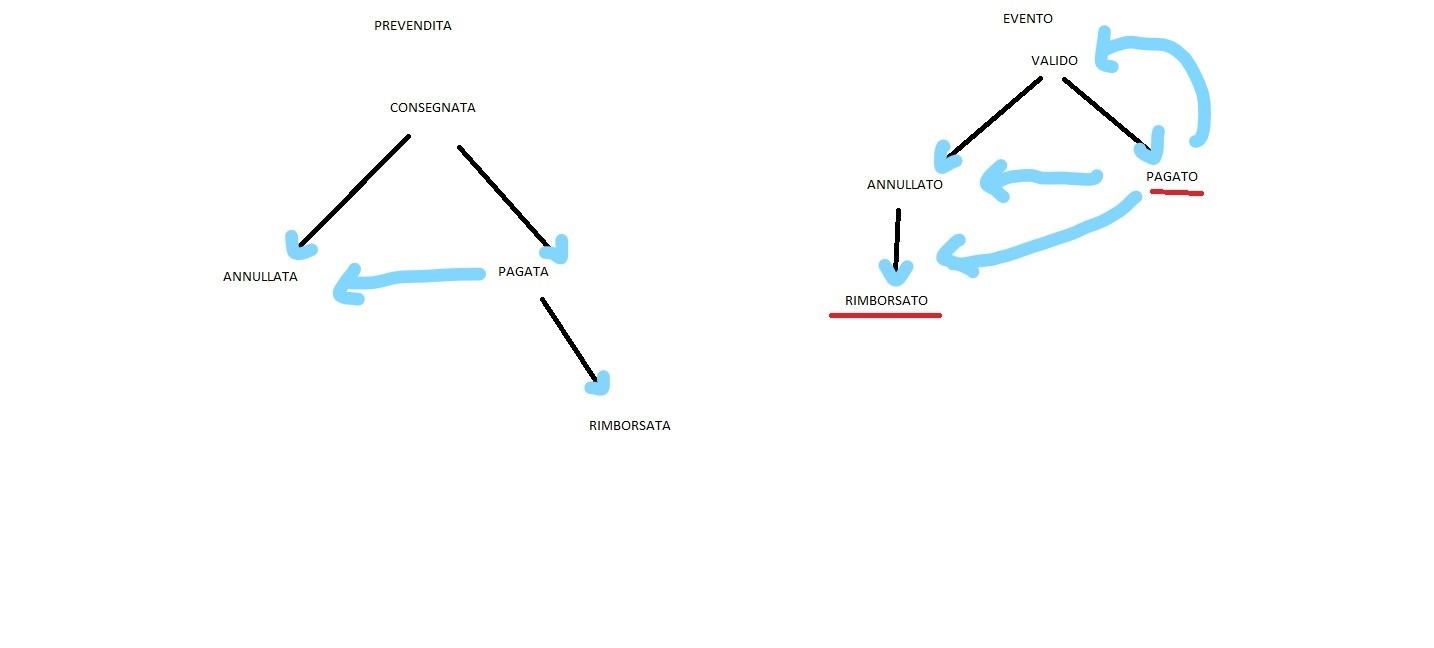
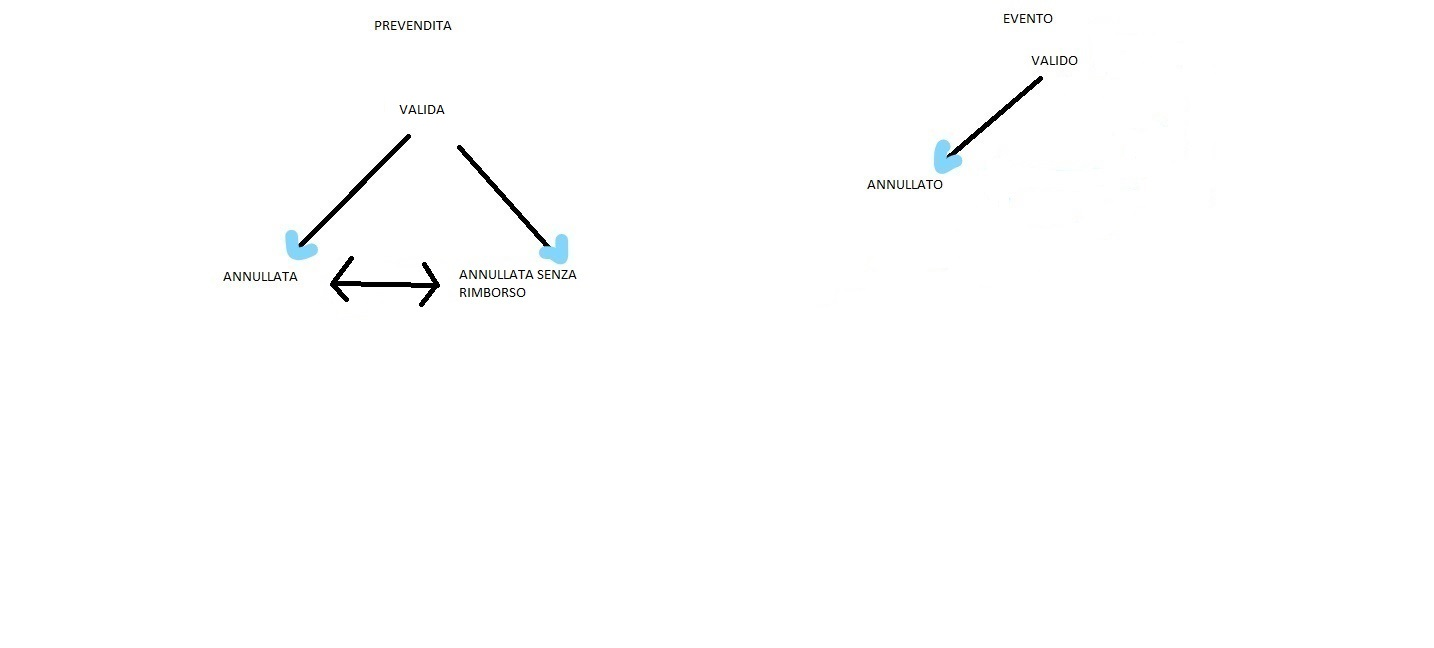
Aggiornamento Aggiornamento dei Requisiti Modifica degli stati di Prevendita e Evento Di conseguenza ho modificato DDL
TODO
Nuova figura dell'amministratore di sistema.
Ho modificato la registrazione:
Ora è a carico dell'amministratore di sistema.
Implementare sistema di log a livelli. Visibile solo per Amm.Sis.
Fallo nel DB così fai prima.
Blocco account utente dopo 3 tentativi falliti.
Da aggiungere il cambia password
La prima password va cambiata:
Mettere check con exception che non fa fare nulla

Manca un check su modificaDirittiUtente:
Per vedere se rimane un amministratore.

diff --git a/Ingegneria del software T/3-progetto.tex b/Ingegneria del software T/3-progetto.tex
@@ -1,5 +1,7 @@
-\documentclass{article}
+\documentclass[a4paper]{article}
 \usepackage[utf8]{inputenc}
+\usepackage[margin=50pt]{geometry}
+\usepackage{tabulary}
 
 \title{Ingegneria del Software T}
 \author{
@@ -32,91 +34,119 @@ Il risparmio economico ottenuto è ovviamente importante in confronto alla vendi
 Viene gestito oltre alle prevendite e relatvi clienti, anche l'organizzazione e i vari membri dell'organizzazione, con divisione dei ruoli.\\
 Per facilitare i conti di bilancio è disponibile una sezione in cui è possibile ricavare statistiche sull'andamento dell'evento.
 
-\newpage
-
 \section{Analisi dei requisiti}
 
 \subsection{Requisiti del sistema}
 
 \begin{itemize}
 	
-	%REQUISITI FUNZIONALI
-
-    \item Il software prevede la possibilità di gestire più staff.
-    \item Ogni staff gestito dal software è indipendente.
-    \item La registrazione di utenti è libera.
-    
-	%-Requisiti di sicurezza
+	\item \textbf{REQUISITI FUNZIONALI}
 	
-    %--Requisiti di identificazione
-	\item Gli utenti devono essere identificati.
+	\begin{itemize}
+		%Si tratta di un requisito funzionale????
+		\item Requisito fondamentale è il basso costo del prodotto software.
+		\item Il software prevede la possibilità di gestire più staff.
+		
+		
+		
+		%-Requisiti di sicurezza
+		
+		%--Requisiti di identificazione
+		\item Gli utenti devono essere identificati per accedere al software.
+		
+		%--Requisito di autenticazione
+		\item Gli utenti sono autenticati tramite username e password.
+		\item Utilizzare uno o più metodi per velocizzare l'autenticazione dell'utente.
+		\item L'accesso ad uno staff, da parte di un utente, avviene tramite codice di accesso.	
+			
+		%--Requisiti di immunità
+		\item Si richiede una comunicazione sicura.
+		\item Si richiedono procedure manuali o automatiche per cercare di garantire la disponibilità del servizio.
+		\item Bloccare l'account utente dopo troppi tentativi di accesso e notificarlo nei log.
+		
+		\item Possibilità di cambiare il codice di accesso dello staff.
+		\item La registrazione di utenti è a carico dell'amministratore.
+		\item Possibilità di cambiare la password personale dell'utente.
+		\item La password fornita dall'amministratore a tempo di registrazione va cambiata immediatamente dopo il login.
+		
+		%--Requisiti di Autorizzazione
+		\item Ogni staff gestito dal software è indipendente.
+		\item Ogni membro di uno staff può ricoprire dei ruoli: cassiere, PR, amministratore.
+		\item Ogni ruolo è indipendente.
+		
+		\item Il ruolo di cassiere riguarda la timbratura di prevendite all'ingresso di un evento.
+		\item Il ruolo di PR riguarda la vendita di prevendite a clienti.
+		\item Il ruolo di amministratore riguarda la gestione dello staff, degli eventi e delle tipologie di prevendita di un evento.
+		
+		%--Requisiti di scoperta alle intrusioni
+		\item Utilizzo di log per monitorare lo stato.
+		\item Prevedere livelli di log per aiutare l'analisi da parte dell'amministratore.
+		
+		%--Requisiti di non-ripudiabilità
+		\item Quando un PR vende una prevendita, essa viene associata ad esso.
+		\item Quando un Cassiere timbra una prevendita, essa viene associata ad esso.
+		
+		%--Requisiti di riservatezza
+		\item Le password devono essere salvate in modo sicuro.
+		%Non vuol dire cifrato! Basta un controllo agli accessi.
+		%Se salvi in DB ricorda di indicizzare.
+		\item Il log deve essere salvato in modo abbastanza sicuro.
+		
+		%--------------------
+		
+		%Accesso e creazione di uno staff
+		\item Ogni utente registrato nel gestionale può diventare membro di uno o più staff. 
+		\item Ogni utente registrato può creare al massimo uno staff.
+		\item Quando un utente crea uno staff ne diventa amministratore.
+		
+		%Timbratura (Cassiere)
+		\item La timbratura di una prevendita valida permette al cliente di entrare all'evento, ovviamente lo staff potrà effettuare ulteriori controlli non previsti dal sistema e decidere di far entrare un cliente.
+		\item La timbratura può essere fatta solo una volta.
+		
+		%Vendita (PR)
+		\item La vendita di una prevendita elettronica consiste nella consegna al cliente di un documento digitale di qualche forma, associato alla prevendita elettronica venduta. Il cliente sceglierà la tipologia di prevendita.
+		\item Il documento digitale consegnato al cliente sarà utilizzato dal cassiere all'ingresso timbrare la prevedita elettronica.
+		\item Si prevedono più forme di consegna del documento digitale, per affrontare le eterogeneità.
+		
+		%Gestione staff (Amministratore)
+		\item La gestione di staff riguarda la gestione dei ruoli concessi ai membri, rimozione di membri, statistiche di un membro, statistiche dell'evento, statistiche dello staff.
+		
+		\item Un amministratore può concedere/revocare i ruoli a qualsiasi membro dello staff. Unico vincolo è che rimanga almeno un amministratore.
+	   
+		\item Per gestione degli eventi di uno staff si intende la possibilità di vedere gli staff di un evento, di creane uno nuovo e di poter modificare un evento dello staff.
+		\item Gli utenti non amministratori possono solo vedere gli eventi dello staff.
+		
+		\item La gestione delle tipologie di prevedita di un evento indica l'aggiunta, la modifica e la rimozione delle tipologie di prevendita.
+		\item Gli utenti non amministratori possono solo vedere le tipologie di prevendite associate ad un evento.
+		
+		%Definizioni
+		%-Eventi
+		\item Un evento è composto da un nome, una descrizione, un periodo temporale di svolgimento e un luogo. 
+		\item Un evento può essere annullato, anche se ci sono prevendite vendute. Un evento annullato rimane tale.
+		
+		%Tipologia Prevendita
+		\item Una tipologia di prevendita serve ad associare alla prevendita un prezzo e una descrizione standard a tutte le prevendite con la stessa tipologia.
+		\item Una tipologia di prevendita contiene un periodo temporale precedente al periodo di svolgimento dell'evento, dentro al quale è possibile vendere le prevendite associate alla tipologia.
+		
+		%-Prevendite
+		\item Ogni prevendita venduta  associata ad una sola tipologia di prevendita.
+		\item Ogni prevedita è nominativa.
+		\item Una prevendita può essere annullata e/o rimborsata. Una prevendita annullata e/o rimborsata rimane tale.
+		
+		%-Statistiche
+		\item Le statistiche di un membro sono suddivise per ruolo coperto all'interno dello staff: cassiere o PR.
+		\item Il ruolo di amministratore non prevede statistiche personali.
+		\item Gli utenti non amministratori possono vedere solo le statistiche personali.	
+	\end{itemize}
 	
-	%--Requisito di autenticazione
-    \item Gli utenti sono autenticati tramite username e password.
-    	
-	%--Requisiti di immunità
-    \item Si richiede una comunicazione sicura.
-    \item Si richiedono metodi per cercare di garantire la disponibilità del servizio.
-    
-	%--Requisiti di Autorizzazione
-    \item Ogni membro di uno staff può ricoprire dei ruoli: cassiere, PR, amministratore.
-    \item Ogni ruolo è indipendente.
-    
-    \item Il ruolo di cassiere riguarda la timbratura di prevendite all'ingresso di un evento.
-    \item Il ruolo di PR riguarda la vendita di prevendite a clienti.
-    \item Il ruolo di amministratore riguarda la gestione dello staff, degli eventi e delle tipologie di prevendita di un evento.
 	
-	%--Requisiti di scoperta alle intrusioni
-	\item Utilizzo di log per monitorare lo stato.
+    
+    \item \textbf{REQUISITI NON FUNZIONALI}
 	
+	\begin{itemize}
+		\item Il blocco dell'account deve avvenire dopo 3 tentativi.
+	\end{itemize}
 	
-	%--Requisiti di non-ripudiabilità
-	\item Quando un PR vende una prevendita viene associata ad esso.
-	
-	%--Requisiti di riservatezza
-	\item Le password devono essere salvate (se necessario) in modo sicuro.
-	\item Il log deve essere salvato in modo sicuro.
-	
-	%--------------------
-    
-    \item Ogni utente registrato nel gestionale può diventare membro di uno o più staff, solo se autorizzato. 
-    \item L'accesso ad uno staff, da parte di un utente, avviene tramite codice di accesso.
-    \item Ogni utente registrato può creare al massimo uno staff.
-    \item Quando un utente crea uno staff ne diventa amministratore.
-    
-    
-    
-    
-    \item La timbratura di una prevendita valida permette al cliente di entrare all'evento, ovviamente lo staff potrà effettuare ulteriori controlli non previsti dal sistema e decidere di far entrare un cliente.
-    \item La timbratura può essere fatta solo una volta.
-    
-    \item La vendita di una prevendita elettronica consiste nella consegna al cliente di un documento digitale di qualche forma, associato alla prevendita elettronica venduta. Il cliente sceglierà la tipologia di prevendita.
-    \item Il documento digitale consegnato al cliente sarà utilizzato dal cassiere all'ingresso timbrare la prevedita elettronica.
-    \item Si prevedono più forme equivalenti di documenti digitali, per affrontare le eterogeneità.
-    
-    
-    \item La gestione di staff riguarda le autorizzazioni concesse ai membri, rimozione di membri, statistiche di un membro, statistiche dell'evento, statistiche dello staff.
-    
-    \item Le statistiche di un membro sono suddivise per ruolo coperto all'interno dello staff: cassiere o PR.
-    \item Il ruolo di amministratore non prevede statistiche personali.
-    \item Gli utenti non amministratori possono vedere solo le statistiche personali.
-    
-    \item Per gestione degli eventi di uno staff si intende la possibilità di vedere gli staff di un evento, di creane uno nuovo e di poter modificare un evento dello staff.
-    \item Gli utenti non amministratori possono solo vedere gli eventi dello staff.
-    \item La gestione delle tipologie di prevedita di un evento indica l'aggiunta, la modifica e la rimozione delle tipologie di prevendita.
-    \item Gli utenti non amministratori possono solo vedere le tipologie di prevendite associate ad un evento.
-    
-    
-    \item Una tipologia di prevendita non è altro che un modello di prevendita con un prezzo, una descrizione e un periodo temporale anticipante l'evento in cui è possibile vendere la prevendita.
-    
-    \item Un evento è composto da un nome, una descrizione, un periodo temporale di svolgimento e un luogo. Inoltre ha anche uno stato che ne indica se l'evento è valido o annullato.
-    
-    \item Ogni prevendita venduta `e associata ad una sola tipologia di prevendita.
-    \item Ogni prevedita `e nominativa.
-    \item Una prevendita ha anche uno stato che ne indica se è stata consegnata, pagata, annullata o rimborsata.
-    
-    %REQUISITI NON FUNZIONALI
-    
 \end{itemize}
 
 \newpage
@@ -125,17 +155,28 @@ Per facilitare i conti di bilancio è disponibile una sezione in cui è possibil
 
 \subsubsection{Vocabolario}
 
-\begin{center}
-    \begin{tabular}{|c|c|c|}
-        \hline
-        \textbf{Voce} & \textbf{Definizione} & \textbf{Sinonimi} \\
-        \hline\hline
-        test & test & test \\
-        \hline
-    \end{tabular}
-\end{center}
+\begin{table}[ht!]
+  \begin{center}
+    \begin{tabulary}{1\textwidth}{c|C|C}
+      \textbf{Voce} & \textbf{Definizione} & \textbf{Sinonimi}\\
+      \hline
+		Amministratore di sistema & Utente con tutti i privilegi. & \\
+        Staff & Gruppo di utenti con lo scopo di organizzare eventi. & Ente organizzatore \\
+        Utente & Persona registrata nel software gestione. & \\
+        Membro & Utente che è iscritto ad uno staff. & Organizzatore \\
+		PR & Membro di uno staff che si occupa della vendita di prevendite & \\
+		Cassiere & Membro di uno staff che si occupa dell'entrata dei clienti ad un evento & \\
+		Amministratore & Membro di uno staff che si occupa della gestione dello staff steso & \\
+        Ruolo & Compito che ha il membro all'interno dello staff & \\
+        Evento & Avvenimento registrato dallo staff, per il quale è possibile vendere prevendite e registrare ingressi & Festa \\
+        Tipologia Prevendita & Modello associato ad una prevendita che da le caratteristiche di prezzo e descrizione & Tipo Prevendita \\
+        Prevendita & Ticket che consente l'entrata ad un evento & Ticket, Prevendita Elettronica
+    \end{tabulary}
+  \end{center}
+\end{table}
 
-%Lo staff è un gruppo di utenti con lo scopo di creare eventi, vendere prevendite e registrare le entrate dell'evento.
-%Un utente è una persona regitrata nel software gestionale, in grado di iscriversi ad uno staff, diventandone membro.
+%Voce & Definizione & Sinonimi \\
+%Staff & Gruppo di utenti con lo scopo di organizzare eventi. & Ente organizzatore \\
+%Utente & Persona registrata nel software gestione, in grado di iscriversi a staff, diventandone membro. & User \\
 
 \end{document}

diff --git a/Server/www/framework/com/model/db/table/PR.php b/Server/www/framework/com/model/db/table/PR.php
@@ -242,7 +242,7 @@ class PR extends Table
                     INNER JOIN evento ON evento.idStaff = pr.idStaff
                     INNER JOIN prevendita ON prevendita.idEvento = evento.id AND prevendita.idPR = pr.idUtente
                     INNER JOIN tipoPrevendita ON tipoPrevendita.idEvento = evento.id AND tipoPrevendita.id = prevendita.idTipoPrevendita
-                    WHERE prevendita.stato = 'PAGATA'
+                    WHERE prevendita.stato = 'VALIDA'
                     GROUP BY pr.idUtente, pr.idStaff, prevendita.idEvento, prevendita.idTipoPrevendita) AS T2
                 GROUP BY T2.idUtente, T2.idStaff) AS T1
             GROUP BY T1.idUtente) AS T
@@ -288,7 +288,7 @@ EOT;
                 INNER JOIN evento ON evento.idStaff = pr.idStaff
                 INNER JOIN prevendita ON prevendita.idEvento = evento.id AND prevendita.idPR = pr.idUtente
                 INNER JOIN tipoPrevendita ON tipoPrevendita.idEvento = evento.id AND tipoPrevendita.id = prevendita.idTipoPrevendita
-                WHERE prevendita.stato = 'PAGATA'
+                WHERE prevendita.stato = 'VALIDA'
                 GROUP BY pr.idUtente, pr.idStaff, prevendita.idEvento, prevendita.idTipoPrevendita) AS T1
             GROUP BY idUtente, idStaff) AS T
         WHERE T.idUtente = :idUtente AND T.idStaff = :idStaff
@@ -333,7 +333,7 @@ EOT;
             INNER JOIN evento ON evento.idStaff = pr.idStaff
             INNER JOIN prevendita ON prevendita.idEvento = evento.id AND prevendita.idPR = pr.idUtente
             INNER JOIN tipoPrevendita ON tipoPrevendita.idEvento = evento.id AND tipoPrevendita.id = prevendita.idTipoPrevendita
-            WHERE prevendita.stato IN ('PAGATA')
+            WHERE prevendita.stato = 'VALIDA'
             GROUP BY pr.idUtente, pr.idStaff, prevendita.idEvento, prevendita.idTipoPrevendita) AS T
         WHERE T.idUtente = :idUtente AND T.idEvento = :idEvento
 EOT;

diff --git a/Server/www/framework/com/model/db/table/Amministratore.php b/Server/www/framework/com/model/db/table/Amministratore.php
@@ -465,7 +465,7 @@ class Amministratore extends Table
                 INNER JOIN evento ON evento.idStaff = pr.idStaff
                 INNER JOIN prevendita ON prevendita.idEvento = evento.id AND prevendita.idPR = pr.idUtente
                 INNER JOIN tipoPrevendita ON tipoPrevendita.idEvento = evento.id AND tipoPrevendita.id = prevendita.idTipoPrevendita
-                WHERE prevendita.stato = 'PAGATA'
+                WHERE prevendita.stato = 'VALIDA'
                 GROUP BY pr.idUtente, pr.idStaff, prevendita.idEvento, prevendita.idTipoPrevendita) AS T1
             GROUP BY idUtente, idStaff) AS T
         WHERE T.idUtente = :idUtente AND T.idStaff = :idStaff
@@ -715,7 +715,7 @@ EOT;
             INNER JOIN evento ON evento.idStaff = pr.idStaff
             INNER JOIN prevendita ON prevendita.idEvento = evento.id AND prevendita.idPR = pr.idUtente
             INNER JOIN tipoPrevendita ON tipoPrevendita.idEvento = evento.id AND tipoPrevendita.id = prevendita.idTipoPrevendita
-            WHERE prevendita.stato = 'PAGATA'
+            WHERE prevendita.stato = 'VALIDA'
             GROUP BY pr.idUtente, pr.idStaff, prevendita.idEvento, prevendita.idTipoPrevendita) AS T
         WHERE T.idUtente = :idUtente AND T.idEvento = :idEvento
 EOT;

diff --git a/Server/www/framework/com/model/db/enum/StatoPrevendita.php b/Server/www/framework/com/model/db/enum/StatoPrevendita.php
@@ -26,13 +26,11 @@ use com\model\net\serialize\ArrayDeserializable;
 class StatoPrevendita extends BasicEnum /*implements JsonSerializable,ArrayDeserializable*/ 
 {
 
-    public const CONSEGNATA = 0;
+    public const VALIDA = 0;
 
-    public const PAGATA = 1;
+    public const ANNULLATA = 1;
 
-    public const ANNULLATA = 2;
-
-    public const RIMBORSATA = 3;
+    public const ANNULLATA_NON_RIMBORSATA = 2;
 
     public function __construct($name, $id)
     {

diff --git a/Server/www/framework/com/model/db/enum/StatoEvento.php b/Server/www/framework/com/model/db/enum/StatoEvento.php
@@ -30,10 +30,6 @@ class StatoEvento extends BasicEnum implements JsonSerializable
 
     public const ANNULLATO = 1;
 
-    public const RIMBORSATO = 2;
-    
-    public const PAGATO = 3;
-
     public function __construct($name, $id)
     {
         parent::__construct($name, $id);
